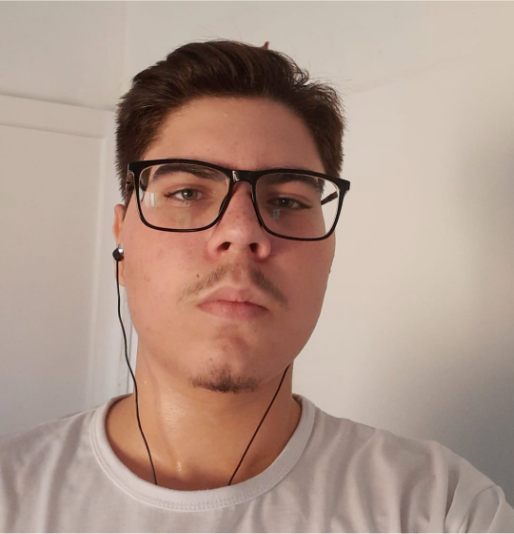
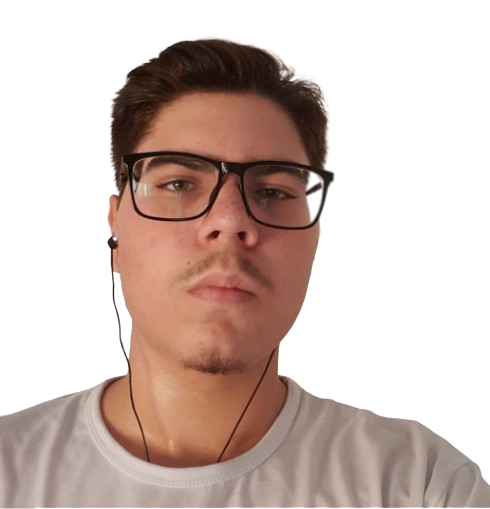
Add files via upload

diff --git a/index.html b/index.html
@@ -6,7 +6,6 @@
     <meta name="viewport" content="width=device-width, initial-scale=1.0">
     <link rel="stylesheet" href="Styles/presentation.css">
     <link rel="stylesheet" href="https://cdnjs.cloudflare.com/ajax/libs/font-awesome/6.4.0/css/all.min.css" integrity="sha512-iecdLmaskl7CVkqkXNQ/ZH/XLlvWZOJyj7Yy7tcenmpD1ypASozpmT/E0iPtmFIB46ZmdtAc9eNBvH0H/ZpiBw==" crossorigin="anonymous" referrerpolicy="no-referrer" />
-    <link href="https://fonts.googleapis.com/css2?family=Cabin:wght@400;500;600;700&amp;display=swap" rel="stylesheet">
     <title>Portfólio | Daniel</title>
 </head>
 <body>
@@ -18,7 +17,7 @@
             <h2>Desenvolvedor Front-End</h2>
             <p>Olá! meu nome é Daniel, tenho 17 anos. Sou uma pessoa focada no meu objetivo, e atualmente meu objetivo é me tornar um desenvolvedor Front-End de sucesso. Dedico grande parte do meu tempo para estudar e aprimorar minhas habilidades nessa área, buscando sempre me atualizar sobre as últimas tendências e tecnologias. Meu objetivo é me tornar um profissional competente e capaz de oferecer soluções criativas e eficientes para os desafios que surgirem na área.</p>
             <a class="link-contats" href="https://danielalexssander.github.io/Contatos/">Contatos</a>
-            <a class="view-projects" href="https://danielalexssander.github.io/Projetos/">Ver Projetos <i class="fa-solid fa-arrow-right-long"></i></a>
+            <a class="view-projects" href="#">Ver Projetos <i class="fa-solid fa-arrow-right-long"></i></a>
         </div>
     </div>
 </body>

diff --git a/Styles/presentation.css b/Styles/presentation.css
@@ -1,7 +1,7 @@
 @charset "UTF-8";
 
 body {
-    font-family: "Cabin", sans-serif;
+    font-family: "Inter", "Poppins", sans-serif;
     background-image: linear-gradient(230deg, rgb(8, 8, 8) 50%, rgb(0, 6, 19));
     background-attachment: fixed;
 }
@@ -15,8 +15,10 @@ body {
 }
 .face-image {
     width: 23%;
-    border-radius: 5px;
+    border-radius: 50%;
     transition: .5s;
+    background: rgb(0,45,84);
+    background: linear-gradient(90deg, rgba(0,45,84,1) 0%, rgba(0,107,175,1) 35%, rgba(0,212,255,1) 100%);
 }
 .face-image:hover {
     width: 23.3%;
